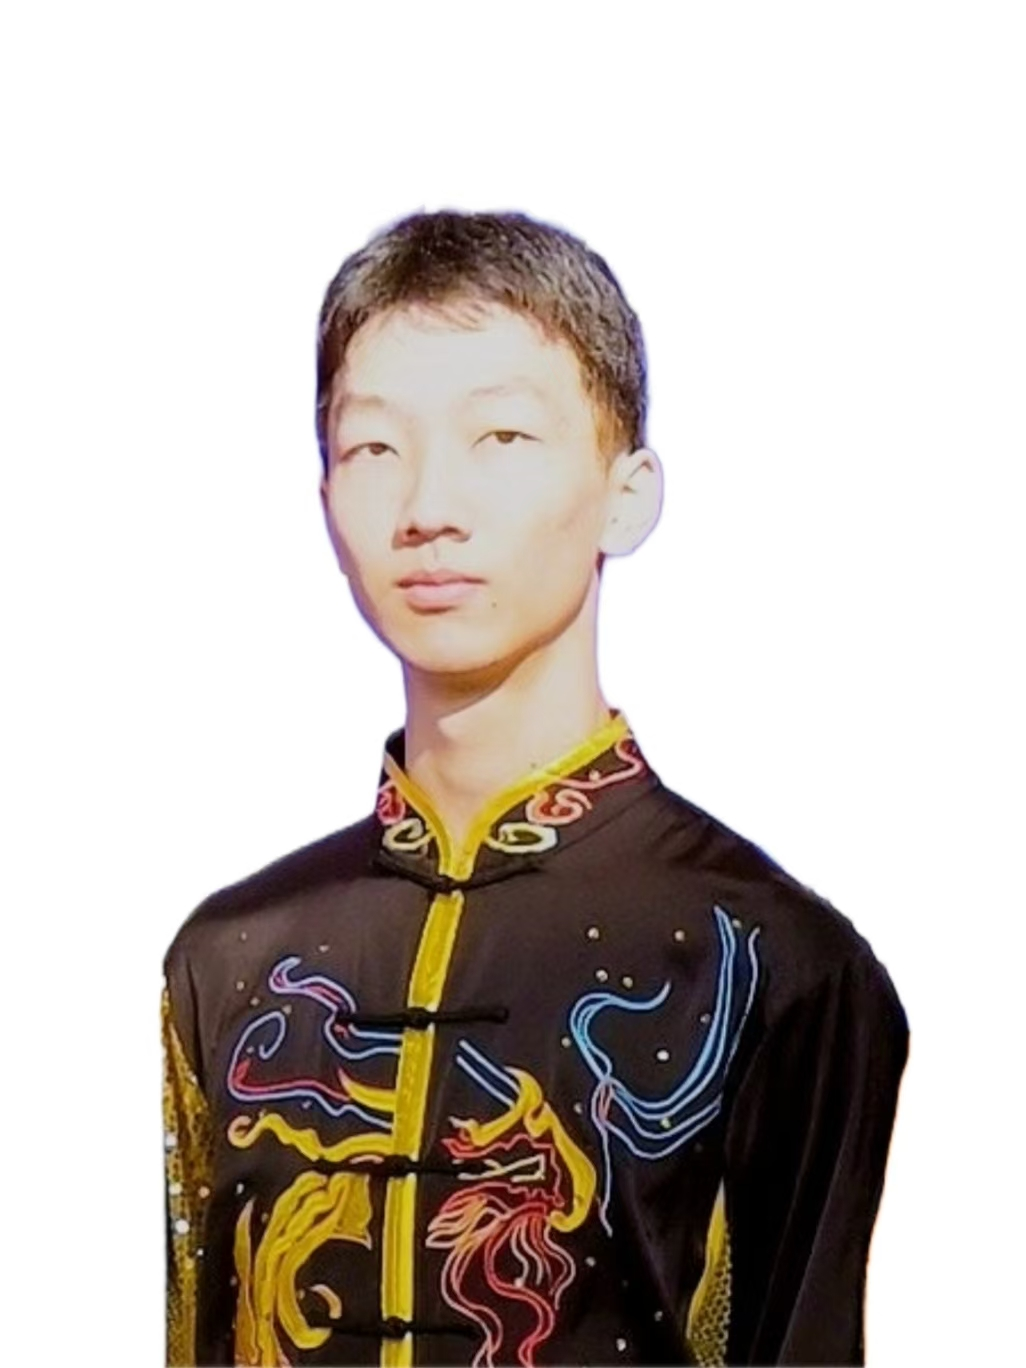
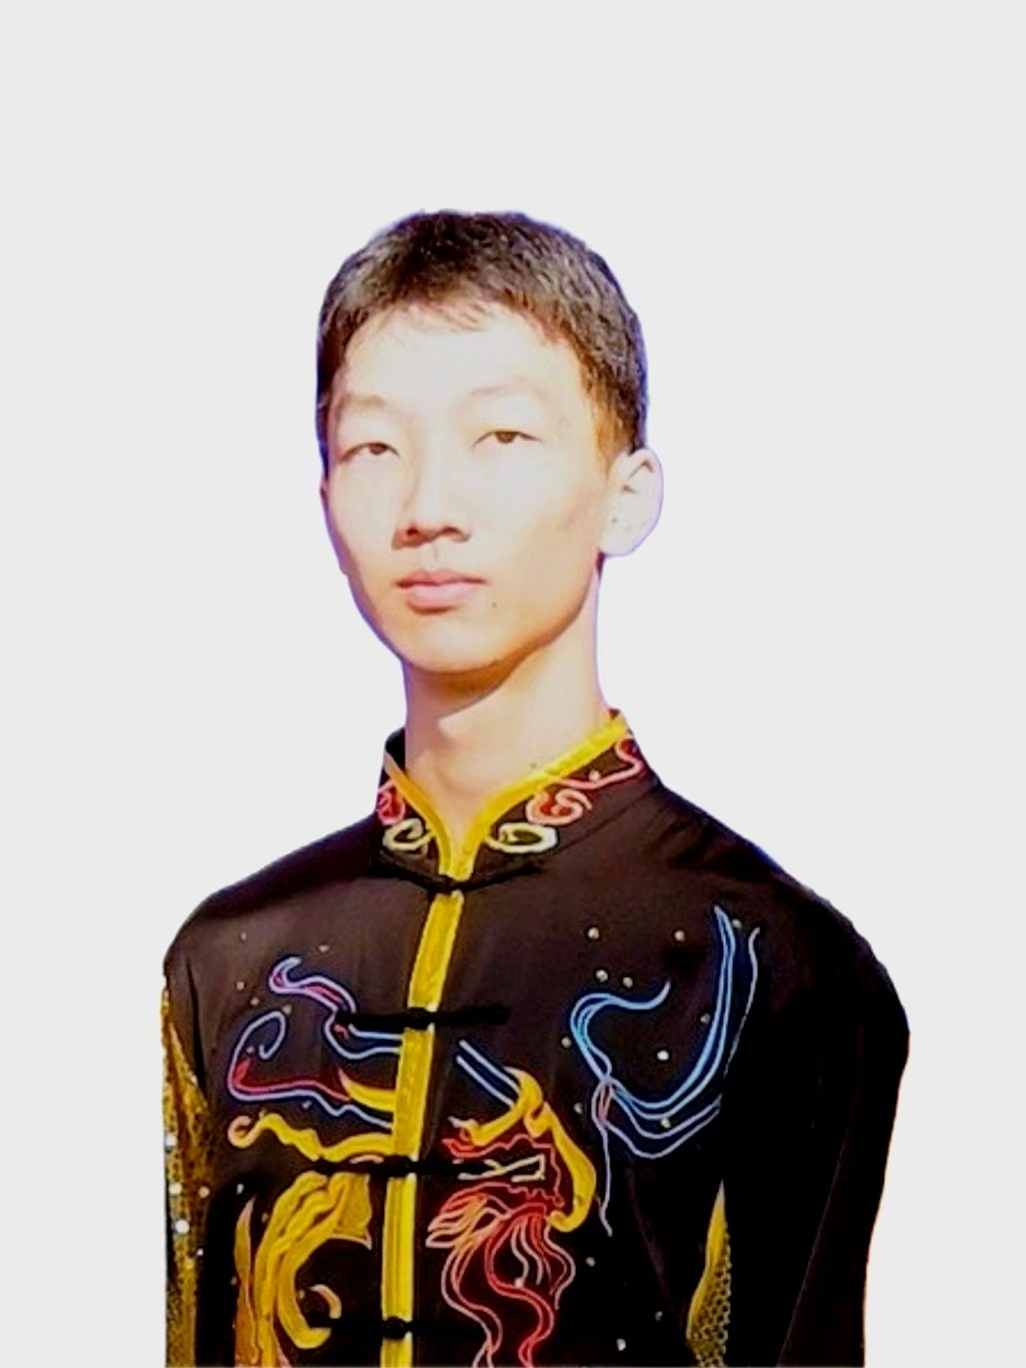
modify photo

diff --git a/src/views/HomeView.vue b/src/views/HomeView.vue
@@ -12,8 +12,8 @@ import { projects } from "@/data/projects"
       <v-row justify="center">
         <div style="width: 80%">
           <v-img
-            src="/photo_white2.jpg"
-            class="d-none d-md-block w">
+          src="/photo_casual.jpg"
+          class="d-none d-md-block w">
           </v-img>
         </div>
         <v-avatar
